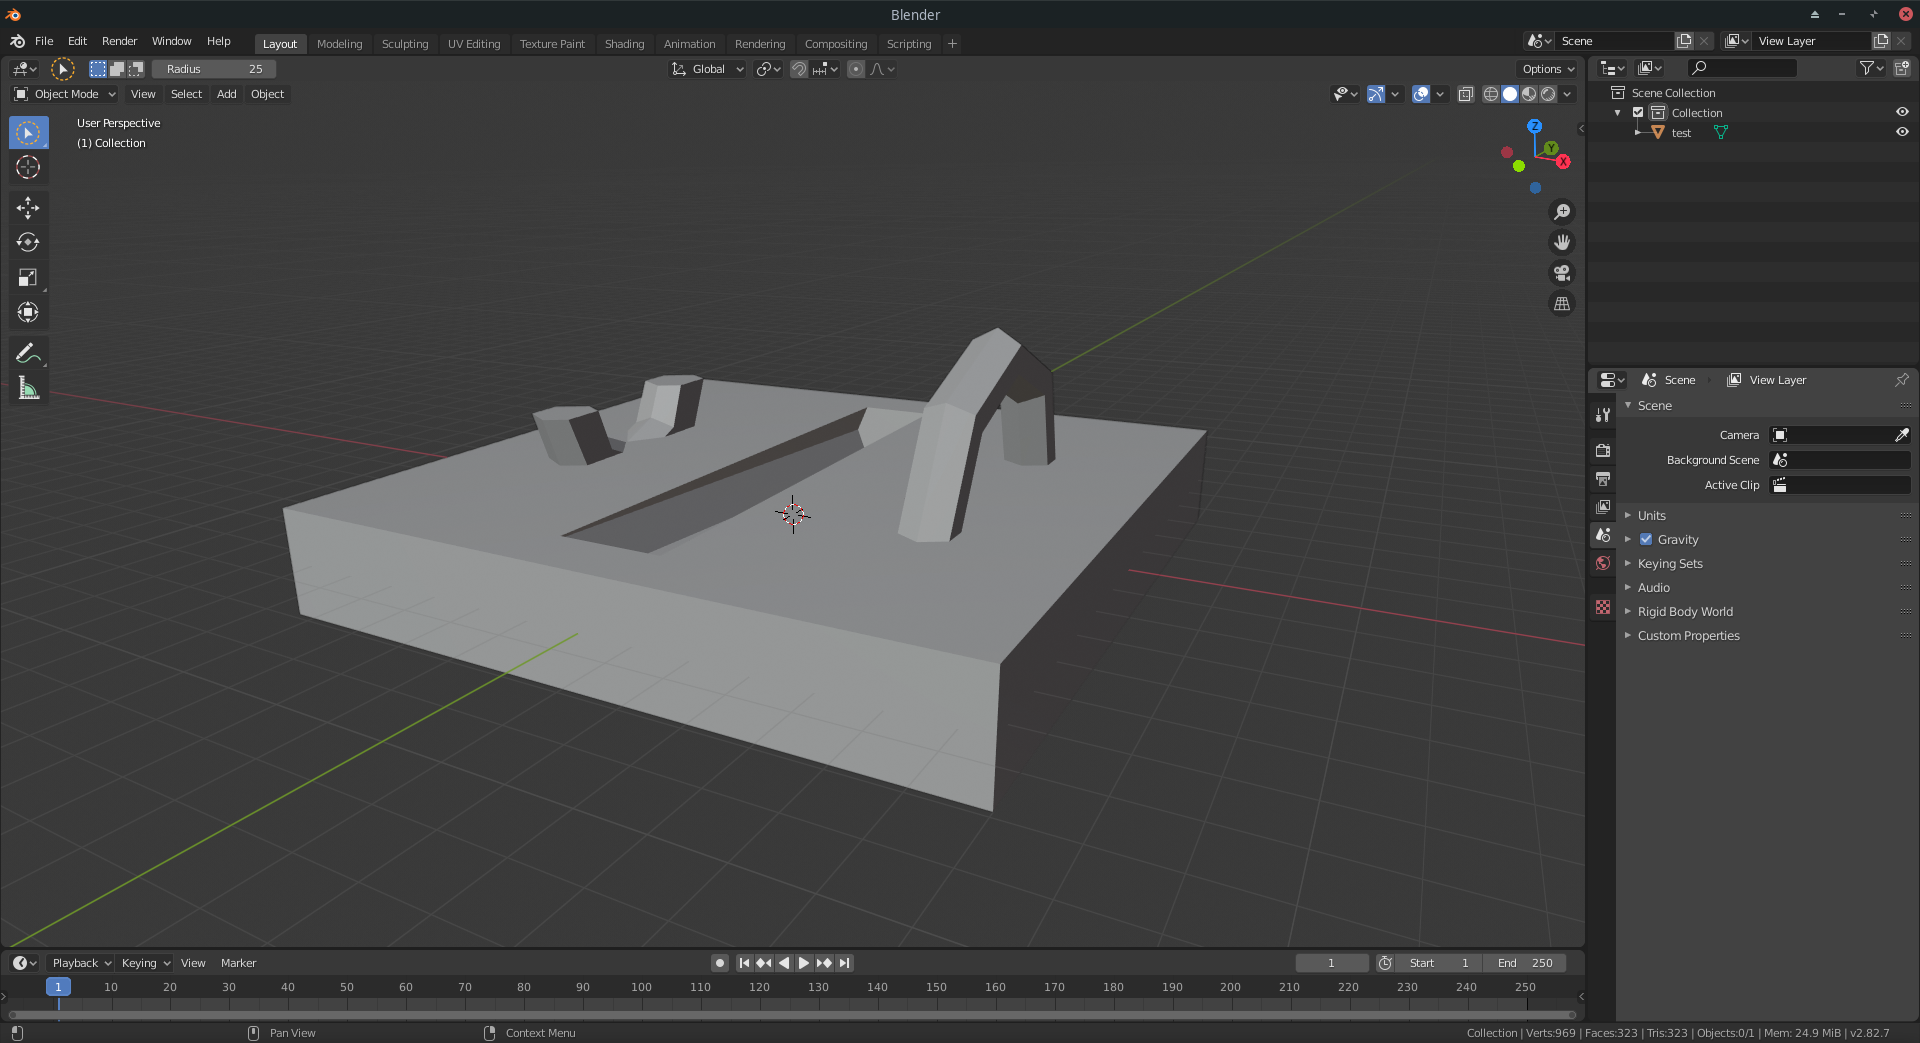
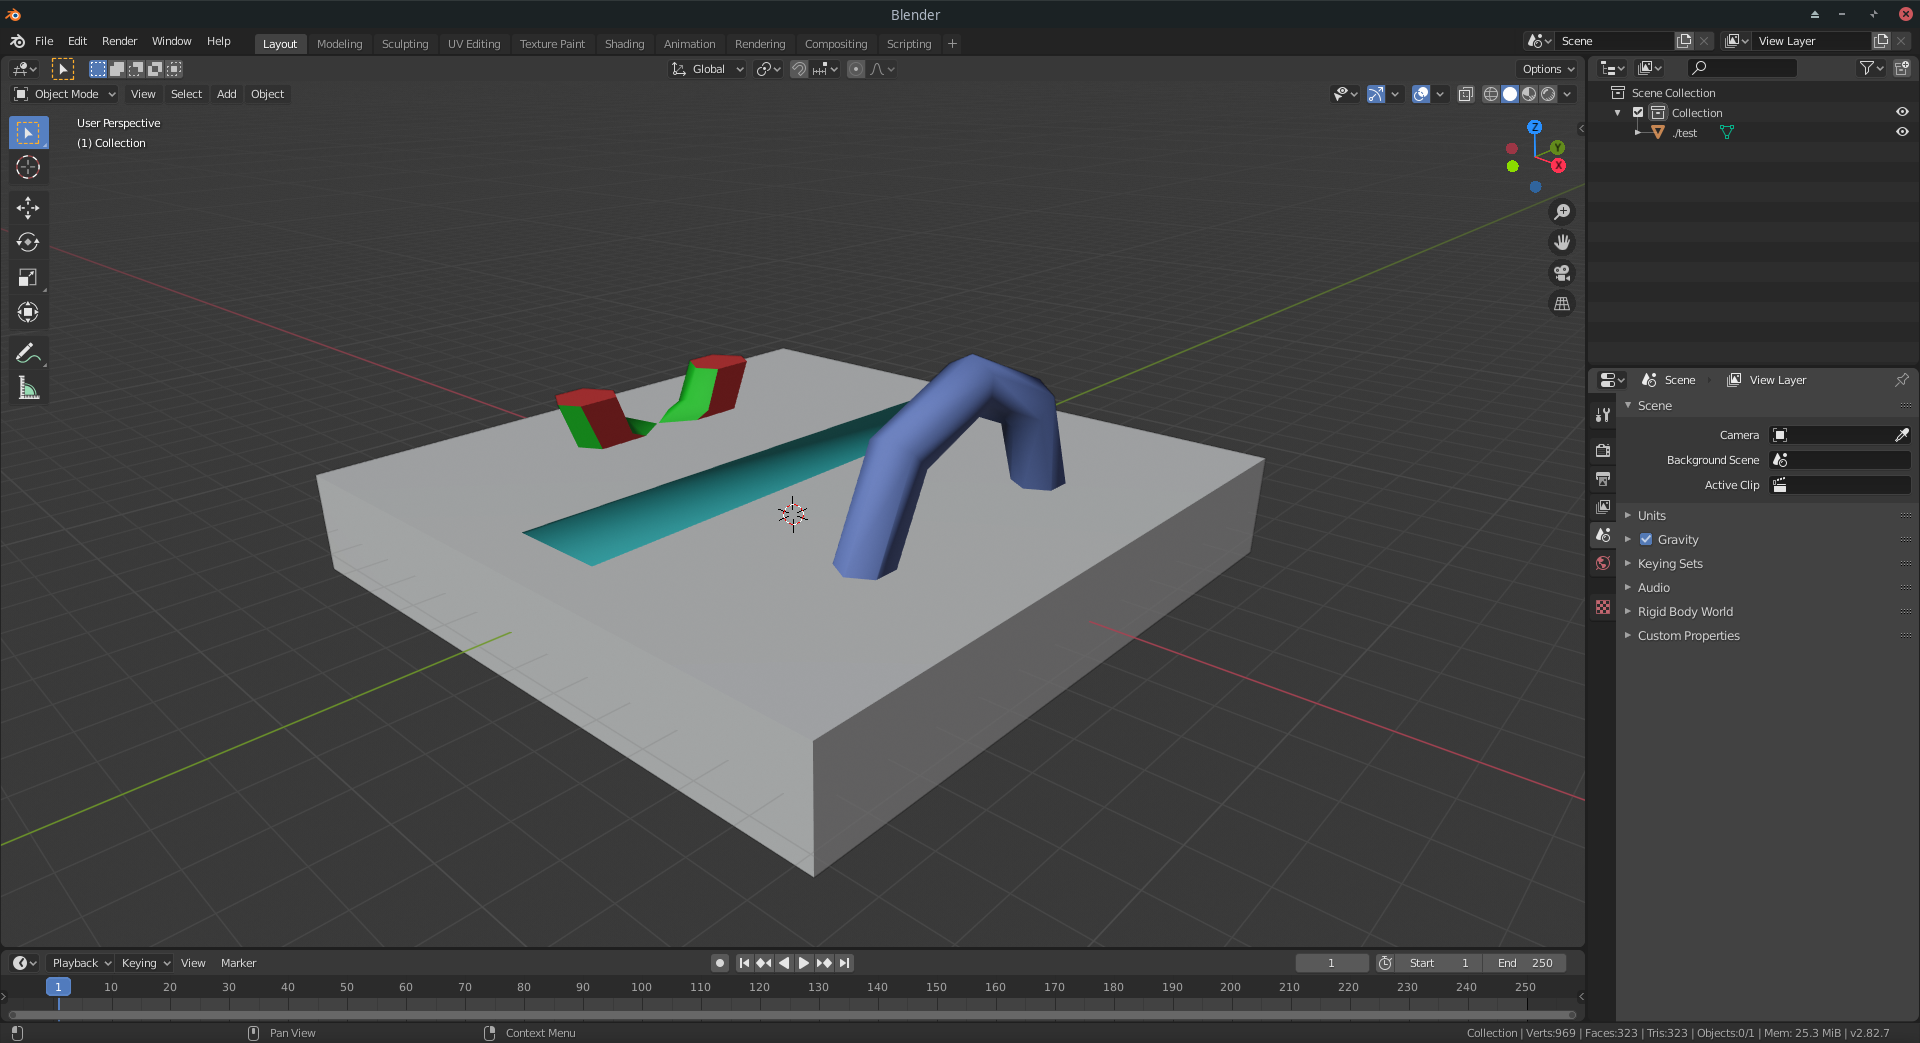
Merged code with tweaked mohammedzero43 CSG Exporter

Changed region(s): [[0.125, 0.3068, 0.6562, 0.8591], [0.0625, 0.0307, 0.1562, 0.092], [0.7812, 0.1227, 0.8125, 0.1841]]

diff --git a/README.md b/README.md
@@ -4,6 +4,8 @@ Godot editor plugin to export CSG Meshes as Wavefront (.obj) files.
 ![Godot CSG Mesh](demo/godot_screenshot.png)
 ![Exporter Wavefront Mesh on Blender](demo/blender_screenshot.png)
 
+**Disclaimer** To fix the CSGMesh material exporting, I merged mohammedzero43's CSG exporter with some slightly tweaks; the original code can be found here: https://github.com/mohammedzero43/CSGExport-Godot. Thanks for letting me use it!
+
 ## How to install
 Add the addon on your Godot project (you may copy the addon from this project folder, or install it via AssetLib). Then activate it on the project settings "Plugins" tab.
 
